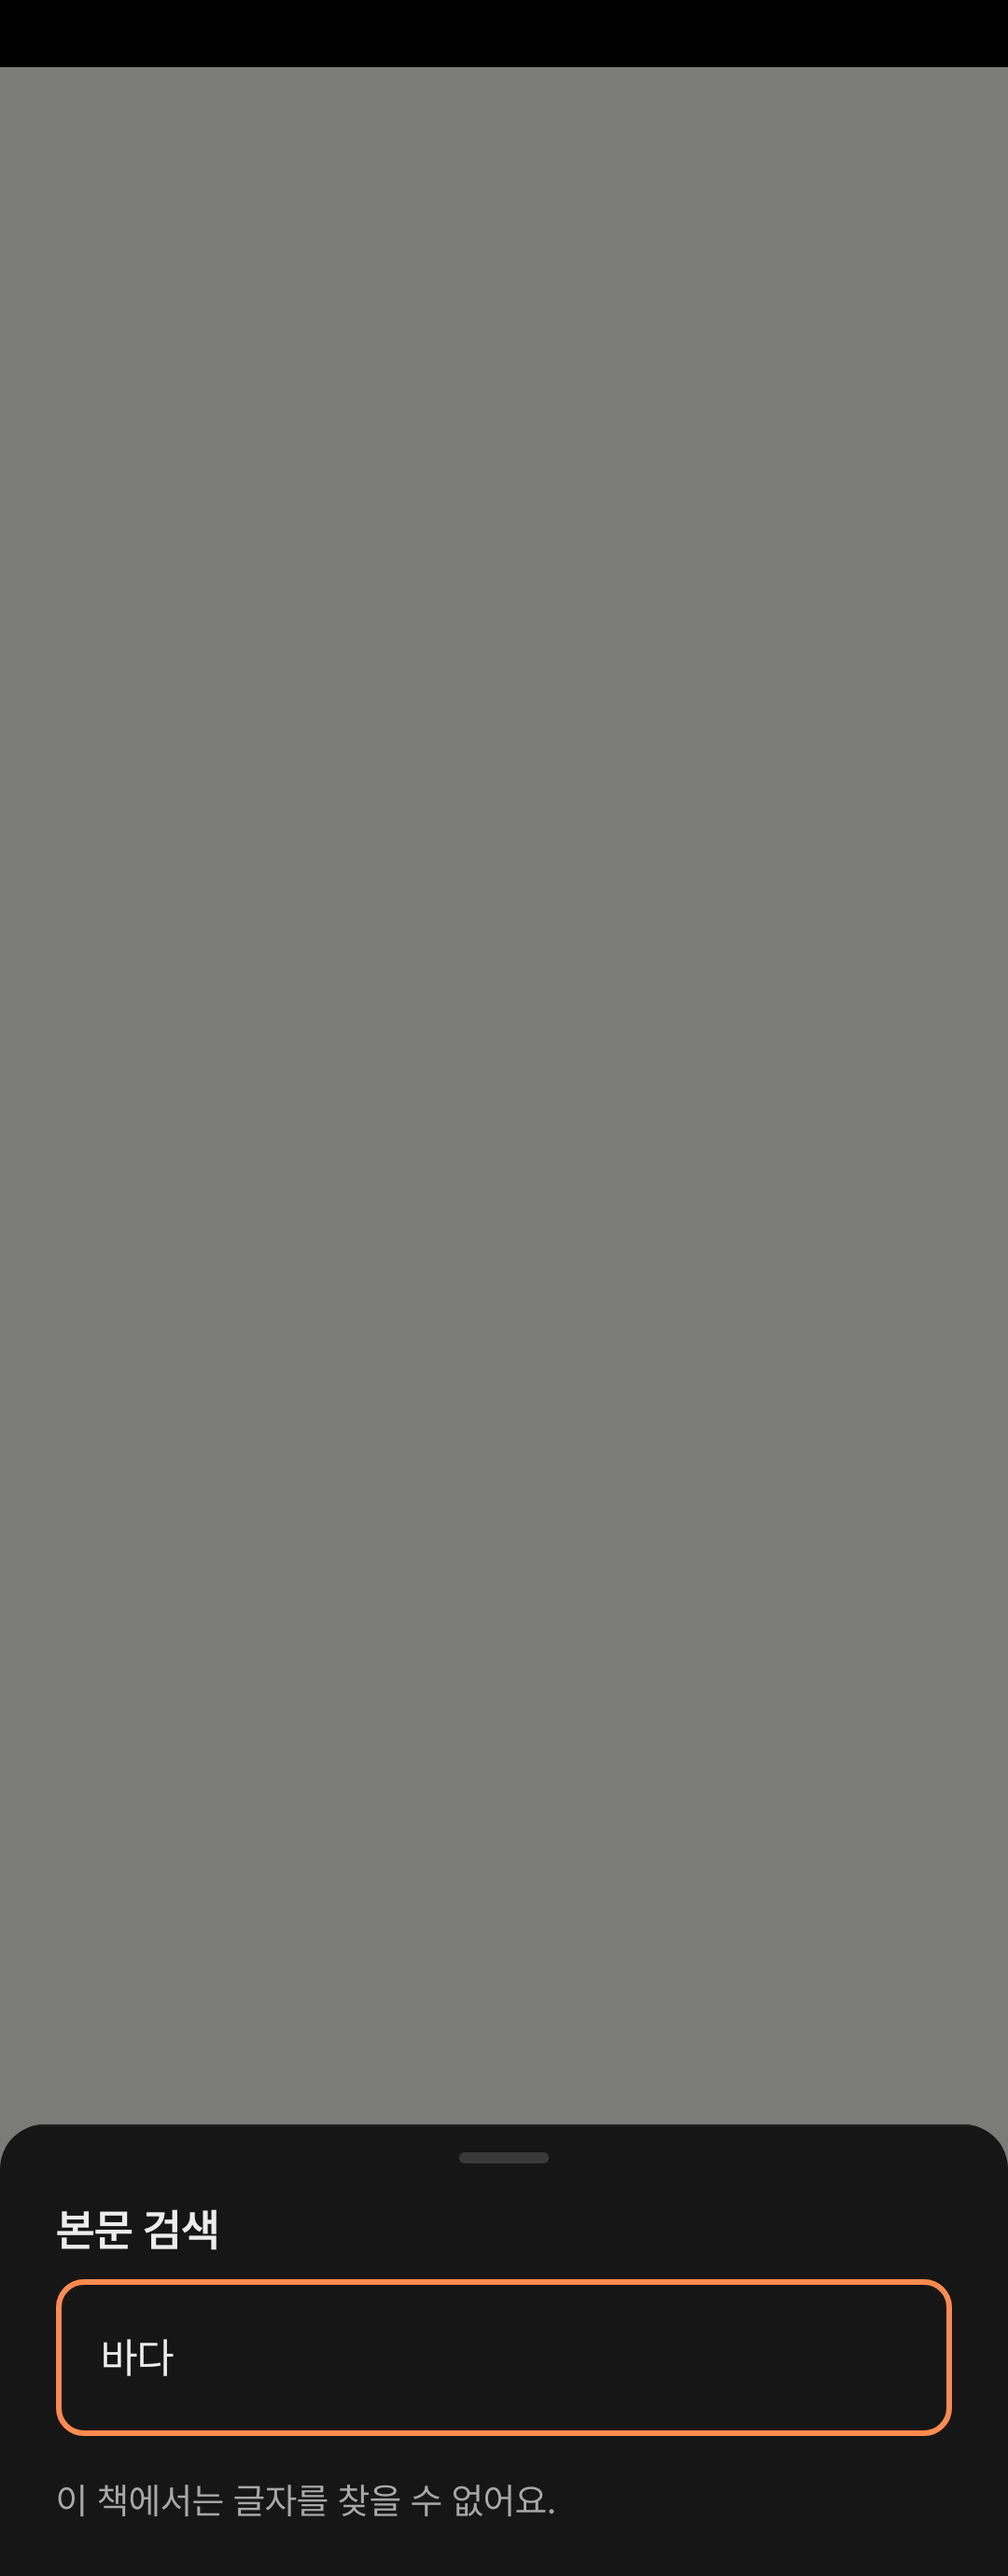
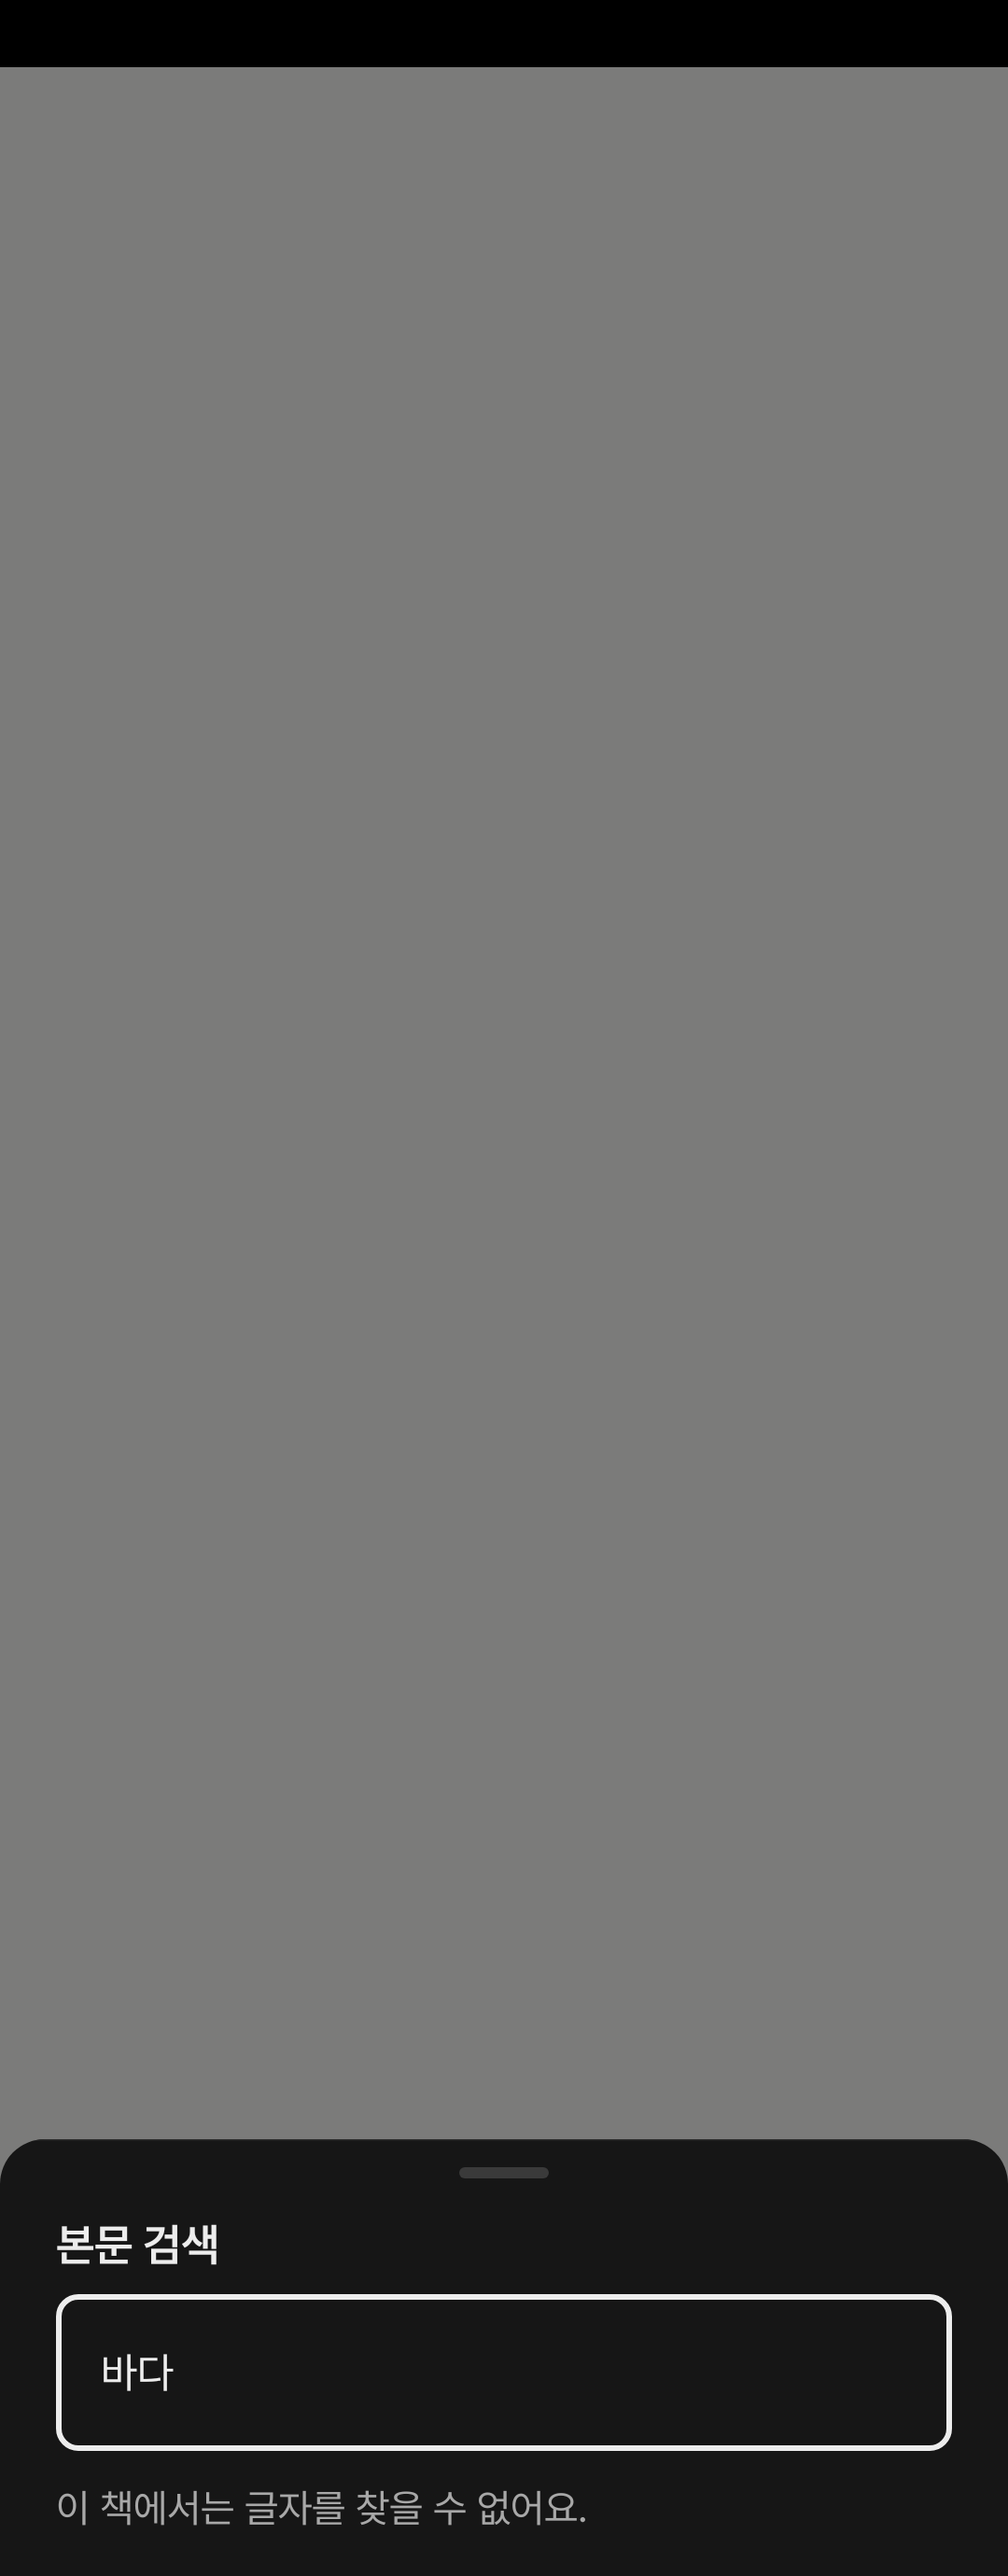
fix(reader): address text search review findings (#61)

Changed region(s): [[0.0, 0.8101, 1.0, 0.9971], [0.0306, 0.9036, 0.0611, 0.9348]]

diff --git a/app/src/main/java/org/parkjw/apps/pdfbook/BookSearchSheet.kt b/app/src/main/java/org/parkjw/apps/pdfbook/BookSearchSheet.kt
@@ -26,6 +26,7 @@ import androidx.compose.material3.rememberModalBottomSheetState
 import androidx.compose.runtime.Composable
 import androidx.compose.runtime.LaunchedEffect
 import androidx.compose.runtime.getValue
+import androidx.compose.runtime.mutableStateListOf
 import androidx.compose.runtime.mutableStateOf
 import androidx.compose.runtime.remember
 import androidx.compose.runtime.rememberCoroutineScope
@@ -40,6 +41,7 @@ import androidx.compose.ui.graphics.Color
 import androidx.compose.ui.platform.LocalDensity
 import androidx.compose.ui.platform.LocalWindowInfo
 import androidx.compose.ui.platform.testTag
+import androidx.compose.ui.res.pluralStringResource
 import androidx.compose.ui.res.stringResource
 import androidx.compose.ui.semantics.Role
 import androidx.compose.ui.semantics.semantics
@@ -47,12 +49,11 @@ import androidx.compose.ui.semantics.testTagsAsResourceId
 import androidx.compose.ui.text.SpanStyle
 import androidx.compose.ui.text.font.FontWeight
 import androidx.compose.ui.unit.dp
-import androidx.compose.ui.unit.sp
 import kotlinx.coroutines.launch
 import org.parkjw.apps.pdfbook.ui.safeDrawingBottomBarPadding
+import org.parkjw.apps.pdfbook.ui.theme.ButtonCorner
 import org.parkjw.apps.pdfbook.ui.theme.PdfBookMonoFamily
 import org.parkjw.apps.pdfbook.ui.theme.PdfBookShapeTokens
-import org.parkjw.apps.pdfbook.ui.theme.ReaderAccent
 import org.parkjw.apps.pdfbook.ui.theme.ReaderChip
 import org.parkjw.apps.pdfbook.ui.theme.ReaderOnOverlay
 import org.parkjw.apps.pdfbook.ui.theme.ReaderOnOverlayVariant
@@ -73,21 +74,17 @@ fun BookSearchSheet(
     modifier: Modifier = Modifier,
 ) {
     var query by rememberSaveable { mutableStateOf("") }
-    var hits by remember { mutableStateOf<List<SearchPageHits>>(emptyList()) }
+    val hits = remember { mutableStateListOf<SearchPageHits>() }
     var searching by remember { mutableStateOf(false) }
     var finished by remember { mutableStateOf(false) }
-    LaunchedEffect(query) {
+    LaunchedEffect(searcher, query) {
         val q = query.trim()
-        hits = emptyList()
+        hits.clear()
         searching = false
         finished = false
         if (q.isEmpty()) return@LaunchedEffect
         searching = true
-        val collected = mutableListOf<SearchPageHits>()
-        searcher.search(q) { pageHits ->
-            collected += pageHits
-            hits = collected.toList()
-        }
+        searcher.search(q) { hits += it }
         searching = false
         finished = true
     }
@@ -151,13 +148,14 @@ fun BookSearchSheet(
                     modifier = Modifier.weight(1f, fill = false),
                 )
                 if (hits.isNotEmpty()) {
+                    val total = hits.sumOf { it.count }
                     Text(
                         text = withNumericSpans(
-                            stringResource(R.string.reader_search_matches, hits.sumOf { it.count }),
+                            pluralStringResource(R.plurals.reader_search_matches, total, total),
                             SpanStyle(fontFamily = PdfBookMonoFamily),
                         ),
                         color = ReaderOnOverlayVariant,
-                        fontSize = 13.sp,
+                        style = MaterialTheme.typography.bodySmall,
                     )
                 }
             }
@@ -171,13 +169,13 @@ fun BookSearchSheet(
                     )
                 },
                 singleLine = true,
-                shape = RoundedCornerShape(10.dp),
+                shape = ButtonCorner,
                 colors = OutlinedTextFieldDefaults.colors(
                     focusedTextColor = ReaderOnOverlay,
                     unfocusedTextColor = ReaderOnOverlay,
-                    cursorColor = ReaderAccent,
-                    focusedBorderColor = ReaderAccent,
-                    unfocusedBorderColor = ReaderChip,
+                    cursorColor = ReaderOnOverlay,
+                    focusedBorderColor = ReaderOnOverlay,
+                    unfocusedBorderColor = ReaderTrack,
                     focusedContainerColor = Color.Transparent,
                     unfocusedContainerColor = Color.Transparent,
                 ),
@@ -198,13 +196,13 @@ fun BookSearchSheet(
                 searching -> Text(
                     text = stringResource(R.string.reader_search_searching),
                     color = ReaderOnOverlayVariant,
-                    fontSize = 13.sp,
+                    style = MaterialTheme.typography.bodyMedium,
                     modifier = Modifier.padding(start = 20.dp, top = 12.dp),
                 )
                 finished -> Text(
                     text = stringResource(R.string.reader_search_no_text),
                     color = ReaderOnOverlayVariant,
-                    fontSize = 13.sp,
+                    style = MaterialTheme.typography.bodyMedium,
                     modifier = Modifier.padding(start = 20.dp, top = 12.dp),
                 )
             }
@@ -233,17 +231,17 @@ private fun SearchRow(
                 SpanStyle(fontFamily = PdfBookMonoFamily),
             ),
             color = ReaderOnOverlay,
-            fontSize = 14.sp,
+            style = MaterialTheme.typography.bodyMedium,
             modifier = Modifier.weight(1f),
         )
         Spacer(Modifier.width(12.dp))
         Text(
             text = withNumericSpans(
-                stringResource(R.string.reader_search_matches, hit.count),
+                pluralStringResource(R.plurals.reader_search_matches, hit.count, hit.count),
                 SpanStyle(fontFamily = PdfBookMonoFamily),
             ),
             color = ReaderOnOverlayVariant,
-            fontSize = 12.sp,
+            style = MaterialTheme.typography.bodySmall,
             fontWeight = FontWeight.SemiBold,
         )
     }

diff --git a/app/src/test/java/org/parkjw/apps/pdfbook/guard/RenderThreadGuardTest.kt b/app/src/test/java/org/parkjw/apps/pdfbook/guard/RenderThreadGuardTest.kt
@@ -27,11 +27,12 @@ class RenderThreadGuardTest {
     }
 
     @Test
-    fun pageDrawOnlyInsideWithContext() {
+    fun pageDrawAndSearchOnlyInsideWithContext() {
         val source = File(SourceFiles.javaRoot, "PageRenderer.kt").readText()
-        assertTrue("PageRenderer.kt draws no pages", Regex("""\bsource\.draw\s*\(""").containsMatchIn(source))
+        assertTrue("PageRenderer.kt draws no pages", drawCall.containsMatchIn(source))
+        assertTrue("PageRenderer.kt searches no pages", searchCall.containsMatchIn(source))
         val offenders = findDrawCallsOutsideWithContext(source).map { "PageRenderer.kt:$it" }
-        assertEquals("PageSource.draw outside withContext:\n${offenders.joinToString("\n")}", emptyList<String>(), offenders)
+        assertEquals("PageSource draw/searchText outside withContext:\n${offenders.joinToString("\n")}", emptyList<String>(), offenders)
     }
 
     @Test
@@ -58,6 +59,8 @@ class RenderThreadGuardTest {
         assertEquals(2, findPdfPageCallsOutsidePageSource("ReaderScreen.kt", inside).size)
         assertEquals(emptyList<String>(), findDrawCallsOutsideWithContext("withContext(d) { source.draw(1, 2, 3) }"))
         assertEquals(1, findDrawCallsOutsideWithContext("fun f() { source.draw(1, 2, 3) }").size)
+        assertEquals(emptyList<String>(), findDrawCallsOutsideWithContext("withContext(d) { source.searchText(1, \"q\") }"))
+        assertEquals(1, findDrawCallsOutsideWithContext("fun f() { source.searchText(1, \"q\") }").size)
     }
 
     private class ThreadRecordingSource : PageSource {
@@ -84,6 +87,8 @@ class RenderThreadGuardTest {
     companion object {
         private val pdfPageCall = Regex("""\.openPage\s*\(|\bRENDER_MODE_\w+""")
         private val drawCall = Regex("""\bsource\.draw\s*\(""")
+        private val searchCall = Regex("""\bsource\.searchText\s*\(""")
+        private val sourceCall = Regex("""\bsource\.(?:draw|searchText)\s*\(""")
 
         fun findPdfPageCallsOutsidePageSource(fileName: String, source: String): List<String> {
             val allowed = if (fileName == "PageRenderer.kt") {
@@ -99,7 +104,7 @@ class RenderThreadGuardTest {
 
         fun findDrawCallsOutsideWithContext(source: String): List<String> {
             val allowed = SourceFiles.blocks(source, Regex("""\bwithContext\s*\([^)]*\)\s*"""))
-            return drawCall.findAll(source)
+            return sourceCall.findAll(source)
                 .filter { hit -> allowed.none { hit.range.first in it } }
                 .map { "${SourceFiles.lineOf(source, it.range.first)}: ${it.value}" }
                 .toList()

diff --git a/app/src/main/java/org/parkjw/apps/pdfbook/ReaderScreen.kt b/app/src/main/java/org/parkjw/apps/pdfbook/ReaderScreen.kt
@@ -536,6 +536,7 @@ private fun ReaderScreenContent(
                 searcher = searcher,
                 onJump = { page ->
                     searchVisible = false
+                    overlayVisible = false
                     seekPage(page)
                     seekFinished()
                 },
